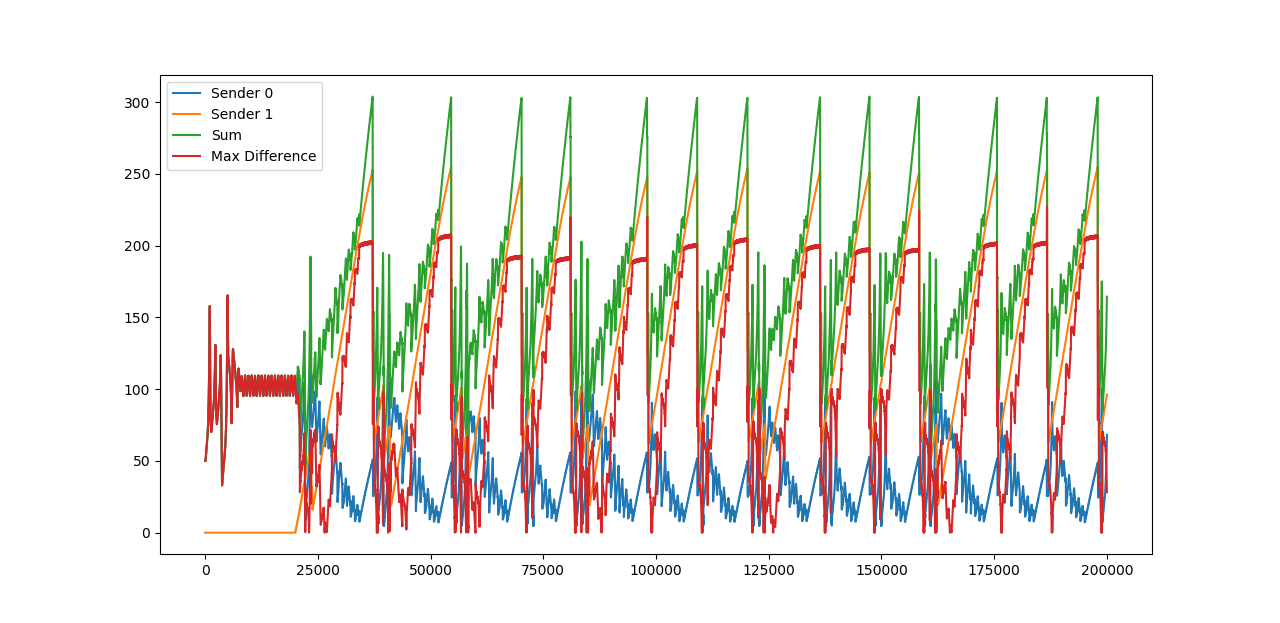
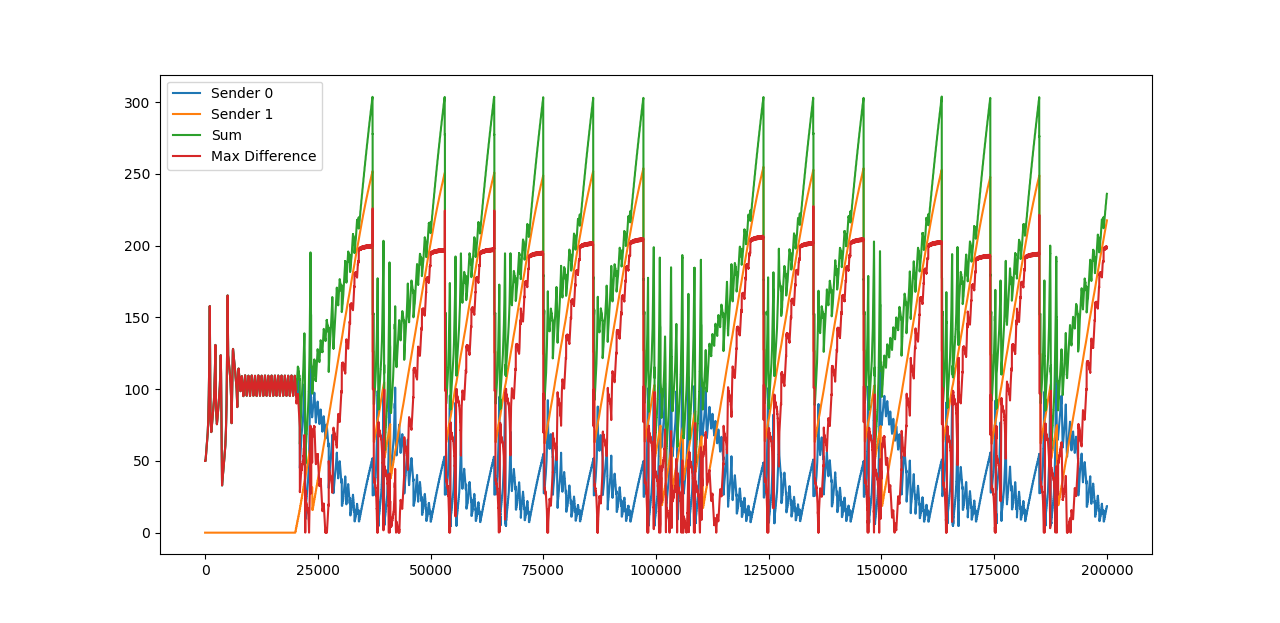
A few more runs

Changed region(s): [[0.2188, 0.1525, 0.875, 0.8539]]

diff --git a/Simulator.py b/Simulator.py
@@ -43,17 +43,17 @@ class Simulator:
 
 if __name__ == "__main__":
     for i in range(1):
-        time = 200000
+        time = 100000
         t1 = 20000
         t2 = time
         buff = 100#0
         serve = 2
         ttl = 50
-        num_senders = 1
+        num_senders = 0
         long = 5000
 
         sim = Simulator(buff, serve, ttl, num_senders, long, "logfile")
-        extras = [CompetitiveSender(sim, sim.dest, long, ttl, i, 1) for i in range(1, 2)]
+        extras = [CompetitiveSender(sim, sim.dest, long, ttl, i, 1) for i in range(1, 3)]
 
         for i in range(len(extras)):
             for j in range(t1):

diff --git a/Sender.py b/Sender.py
@@ -187,9 +187,15 @@ class Sender:
 
 
 class CompetitiveSender(Sender):
-    def default_receive(self, message):
+    def receive(self, message):
+        message.received = self.time
         self.competitive_receive(message)
-    def default_timestep(self):
+
+    def timestep(self):
+        self.messages_in_air = self.ack_num - self.expected_ack
         self.competitive_timestep()
+        self.plot.append(self.cwnd)
+        self.time += 1
+
     def log_write(self, string):
         pass
